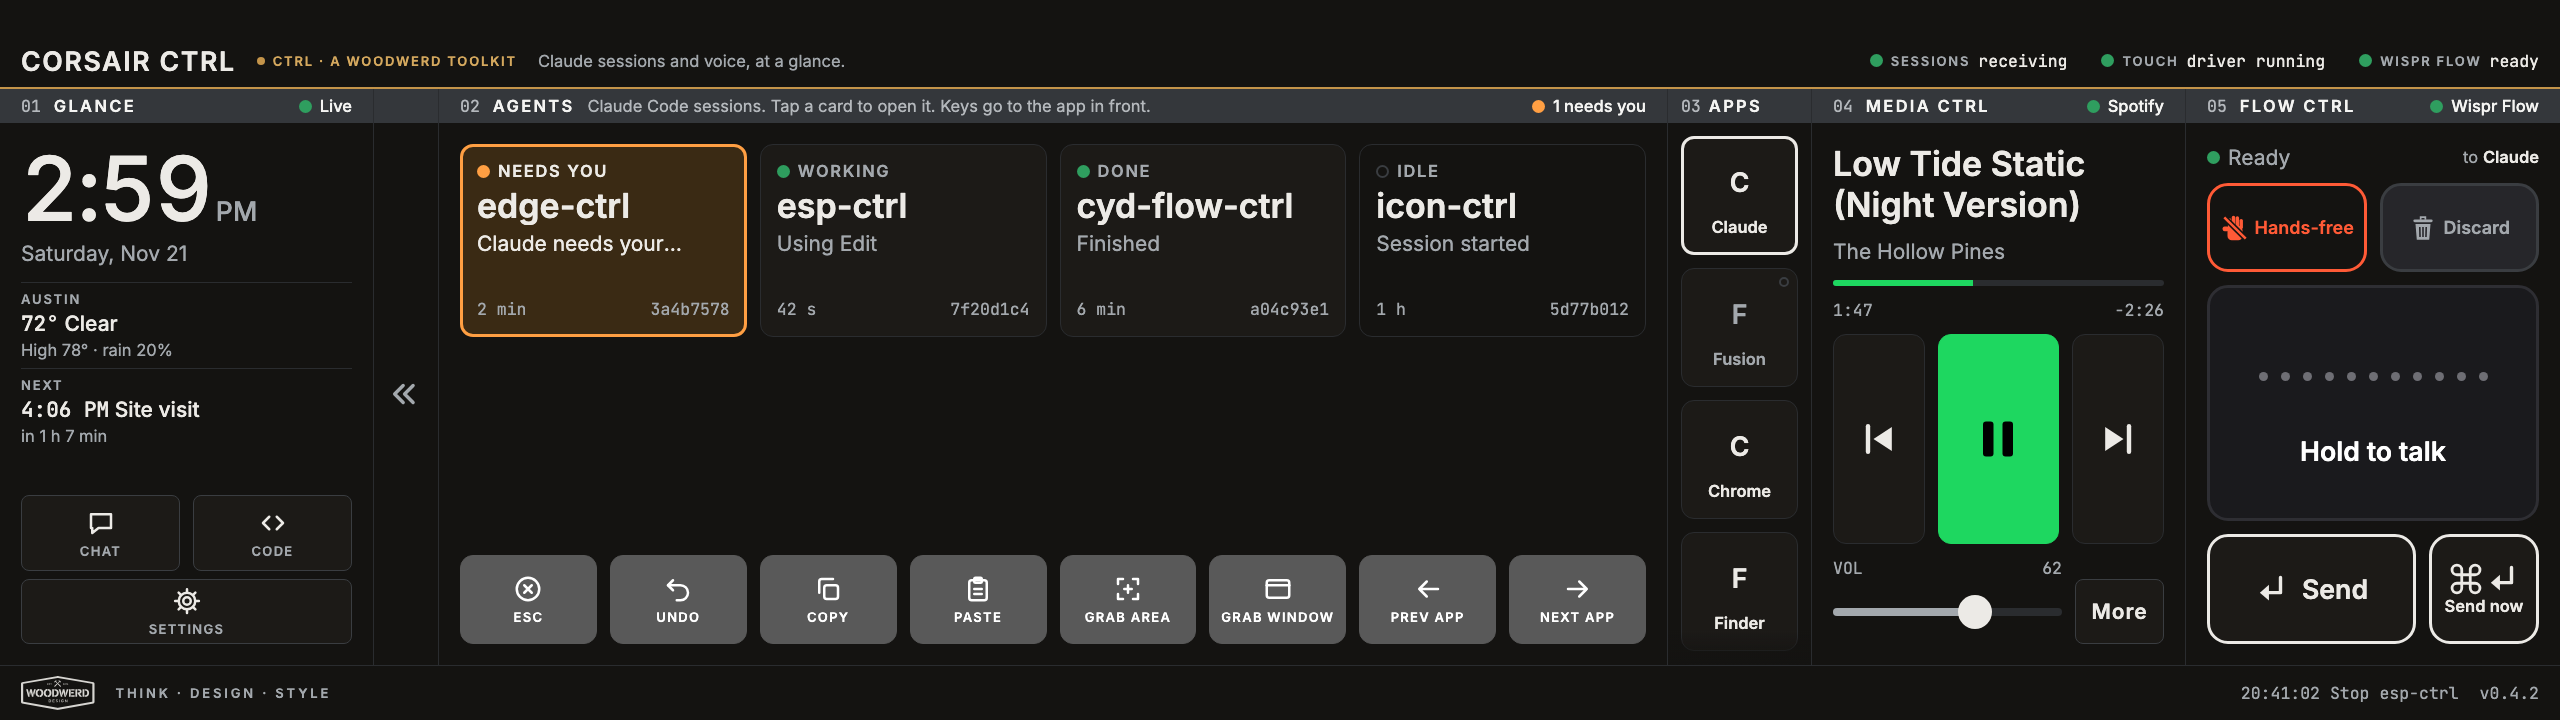
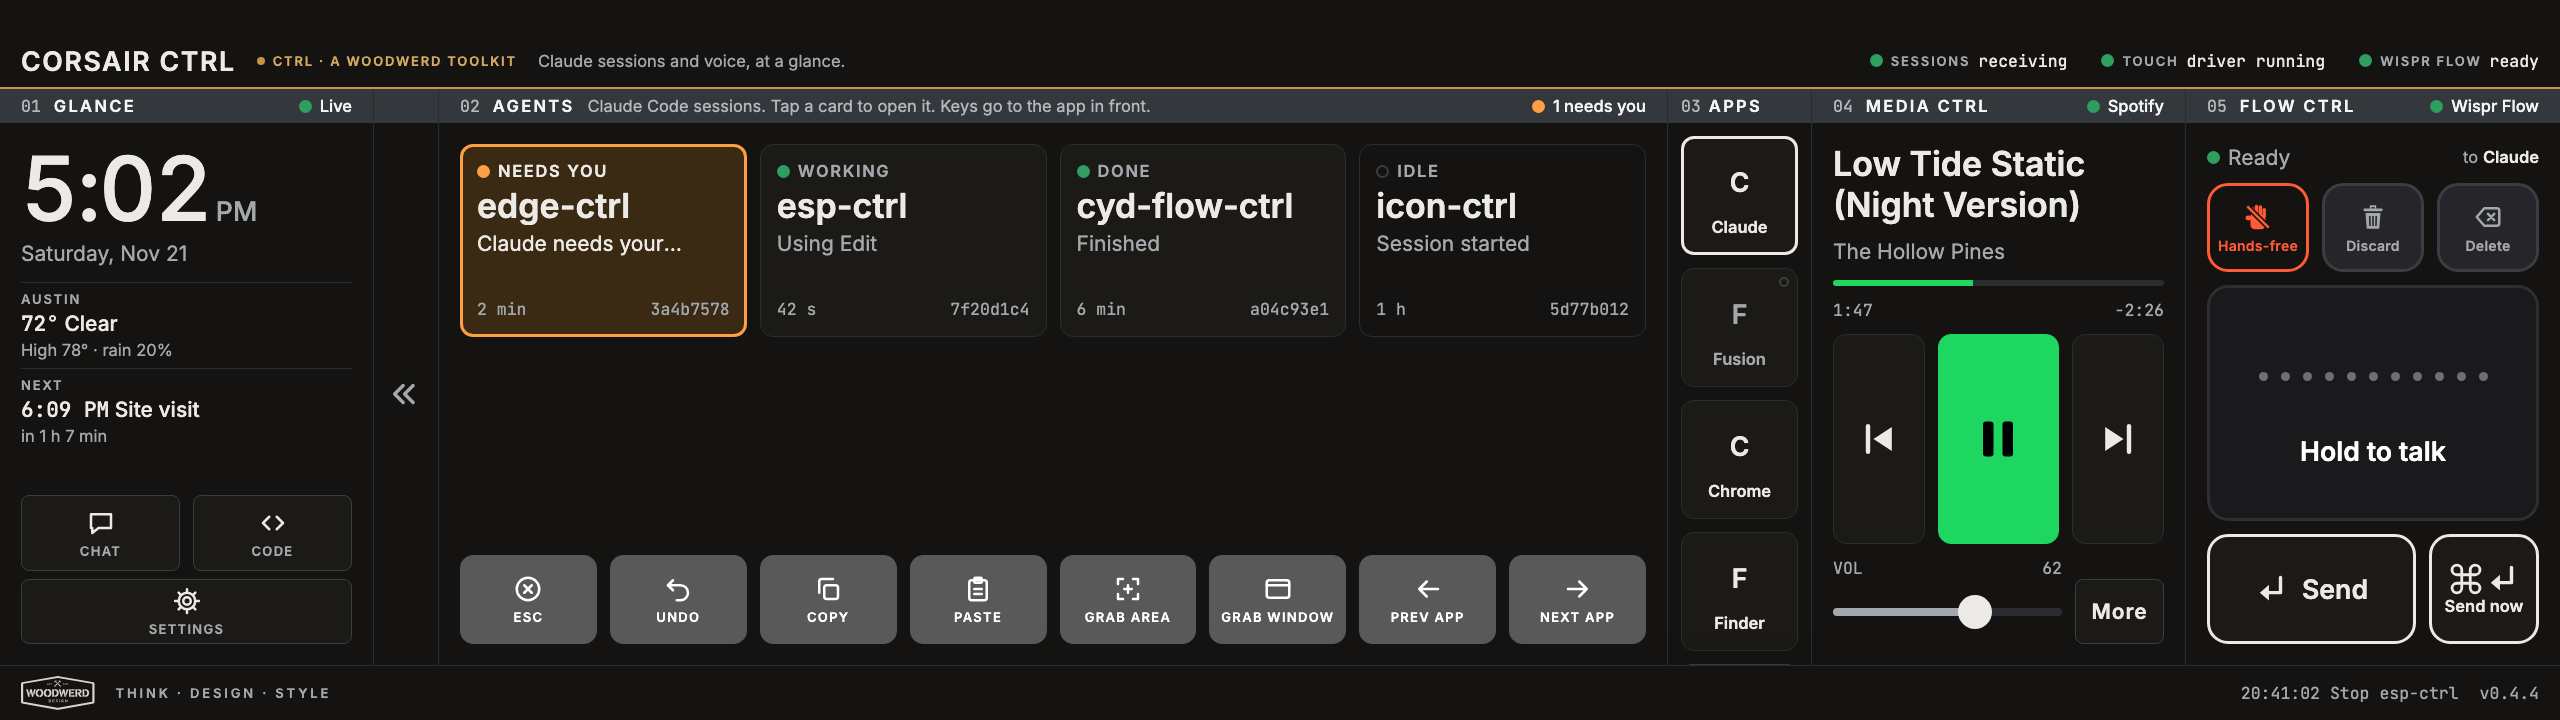
Corsair Ctrl v0.4.4: Delete key in Flow Ctrl
Flow Ctrl's top row is three square buttons: Hands-free, Discard, Delete.
Delete removes one character backwards per tap and repeats while held.

Changed region(s): [[0.8438, 0.2444, 1.0, 0.3972], [0.0, 0.2139, 0.0938, 0.3056], [0.0, 0.55, 0.0312, 0.5806]]

diff --git a/app/web/index.html b/app/web/index.html
@@ -218,8 +218,8 @@ body.kiosk .frame{outline:0}
 .f-status{display:flex;align-items:center;gap:8px;font-size:var(--t-body);color:var(--ink-soft);height:26px;white-space:nowrap;flex:none}
 .f-status .to{margin-left:auto;min-width:0;overflow:hidden;text-overflow:ellipsis;font-size:var(--t-cap)}
 .f-status .to b{color:var(--ink);font-weight:600}
-.f-pair{display:grid;grid-template-columns:1fr 1fr;gap:13px;flex:none}
-.f-btn{height:89px;border-radius:21px;display:flex;align-items:center;justify-content:center;gap:5px;font-size:18px;white-space:nowrap;padding:0 5px;font-weight:600;border:3px solid var(--line-strong);background:var(--chip);color:var(--ink-soft)}
+.f-pair{display:grid;grid-template-columns:repeat(3,minmax(0,1fr));gap:13px;flex:none}
+.f-btn{height:89px;border-radius:21px;display:flex;flex-direction:column;align-items:center;justify-content:center;gap:5px;font-size:14px;letter-spacing:.02em;white-space:nowrap;padding:0 3px;font-weight:600;border:3px solid var(--line-strong);background:var(--chip);color:var(--ink-soft)}
 .f-btn svg{width:30px;height:30px;flex:none}
 .f-btn .x{font-size:var(--t-h3);line-height:1;display:none}
 .f-btn.hand{background:transparent;border-color:var(--live);color:var(--live-ink)}
@@ -410,6 +410,7 @@ body.folded .rail{border-right:1px solid var(--line-strong)}
         <div class="f-pair">
           <button class="f-btn hand" id="hf" aria-label="Hands-free"><svg viewBox="0 0 28 28" aria-hidden="true"><defs><mask id="hm"><rect width="28" height="28" fill="#fff"/><line x1="3" y1="3" x2="25" y2="25" stroke="#000" stroke-width="5.2"/></mask></defs><g fill="currentColor" mask="url(#hm)"><rect x="7" y="12" width="14" height="13.5" rx="4"/><rect x="7.4" y="5" width="3.2" height="10" rx="1.6"/><rect x="11" y="2.5" width="3.2" height="12.5" rx="1.6"/><rect x="14.6" y="3" width="3.2" height="12" rx="1.6"/><rect x="18.2" y="5.5" width="3.2" height="9.5" rx="1.6"/><rect x="2.5" y="12.5" width="6" height="4.5" rx="1.8"/></g><line x1="4" y1="4" x2="24" y2="24" stroke="currentColor" stroke-width="2.4"/></svg><span>Hands-free</span></button>
           <button class="f-btn trash" id="discard" aria-label="Discard"><svg viewBox="0 0 28 28" aria-hidden="true"><defs><mask id="tm"><rect width="28" height="28" fill="#fff"/><g stroke="#000" stroke-width="1.5"><line x1="11" y1="13" x2="11.24" y2="22.4"/><line x1="14" y1="13" x2="14" y2="22.4"/><line x1="17" y1="13" x2="16.76" y2="22.4"/></g></mask></defs><g fill="currentColor"><rect x="5" y="6" width="18" height="2.6" rx="1.3"/><path fill-rule="evenodd" d="M11 3h6v3.4h-6zM12.6 4.6h2.8v1.8h-2.8z"/><polygon points="7,10.2 21,10.2 19.8,25 8.2,25" mask="url(#tm)"/></g></svg><span class="x">×</span><span id="discard-l">Discard</span></button>
+          <button class="f-btn" id="f-del" aria-label="Delete backwards"><svg viewBox="0 0 24 24" fill="none" stroke="currentColor" stroke-width="2" stroke-linecap="round" stroke-linejoin="round" aria-hidden="true"><path d="M9 5h10a2 2 0 0 1 2 2v10a2 2 0 0 1-2 2H9l-6-7z"/><path d="M12 9.5l5 5M17 9.5l-5 5"/></svg><span>Delete</span></button>
         </div>
         <button class="talk" id="talk" aria-label="Hold to talk">
           <span class="dots"><i></i><i></i><i></i><i></i><i></i><i></i><i></i><i></i><i></i><i></i><i></i></span>
@@ -606,6 +607,19 @@ function renderGlance() {
 /* ── 02 Agents ──────────────────────────────────────────────── */
 // Key row: each key is sent to the app in front.
 document.querySelectorAll("#keys [data-key]").forEach(b => b.onclick = () => post({ action: "edit", key: b.dataset.key }));
+// Flow Ctrl's Delete repeats while held, like the key on a keyboard: once, a pause, then steadily.
+{
+  const b = $("f-del");
+  let wait = 0, rep = 0;
+  const stop = () => { clearTimeout(wait); clearInterval(rep); wait = rep = 0; };
+  b.addEventListener("pointerdown", () => {
+    if (b.disabled) return;
+    stop();
+    post({ action: "edit", key: "backspace" });
+    wait = setTimeout(() => { rep = setInterval(() => post({ action: "edit", key: "backspace", repeat: true }), 70); }, 450);
+  });
+  for (const e of ["pointerup", "pointercancel", "pointerleave"]) b.addEventListener(e, stop);
+}
 let boardKey = "";
 function renderBoard() {
   const board = $("board"), band = $("s-board");
@@ -838,7 +852,7 @@ setInterval(() => { if (ST) renderGlance(); }, 30000);
 if (!bridge) {
   const now = Date.now() / 1000;
   window.ctrlUpdate({
-    version: "0.4.3", theme: new URLSearchParams(location.search).get("theme") || "auto", front: "Claude", lastLine: "20:41:02  Stop esp-ctrl",
+    version: "0.4.4", theme: new URLSearchParams(location.search).get("theme") || "auto", front: "Claude", lastLine: "20:41:02  Stop esp-ctrl",
     sessions: location.search.includes("empty") ? [] : [
       { id: "3a4b7578-aaaa", name: "edge-ctrl", state: "needs", since: now - 120, last: "Claude needs your permission to use Bash" },
       { id: "7f20d1c4-bbbb", name: "esp-ctrl", state: "working", since: now - 38, last: "Using Edit" },

diff --git a/app/Sources/main.swift b/app/Sources/main.swift
@@ -8,7 +8,7 @@ import ServiceManagement
 import ApplicationServices
 
 let PORT: UInt16 = 47616
-let VERSION = "0.4.3"
+let VERSION = "0.4.4"
 let CLAUDE_BUNDLE = "com.anthropic.claudefordesktop"
 
 struct Config: Codable {
@@ -394,6 +394,9 @@ final class App: NSObject, NSApplicationDelegate, WKScriptMessageHandler, WKNavi
             guard AXIsProcessTrusted() else { note("Key not sent: Accessibility is not allowed"); return }
             let app = front?.localizedName ?? "?"
             switch key {
+            case "backspace":
+                // Held, it repeats many times a second: say so once, not for every character.
+                if keys.perform(key), m["repeat"] as? Bool != true { note("Delete → \(app)") }
             case "esc", "undo", "copy", "paste":
                 if keys.perform(key) { note("\(key.capitalized) → \(app)") }
             case "switch", "switch-back":

diff --git a/app/Sources/Keys.swift b/app/Sources/Keys.swift
@@ -63,6 +63,7 @@ final class Keys {
         case "undo": tap(6, .maskCommand)
         case "copy": tap(8, .maskCommand)
         case "paste": tap(9, .maskCommand)
+        case "backspace": tap(51)
         case "space": tap(kSpace)
         default: return false
         }

diff --git a/spec.md b/spec.md
@@ -1,6 +1,6 @@
 # Corsair Ctrl — agent panel for the XENEON EDGE (spec v0.2)
 
-> 2026-11-21 · Status: **v0.4.3 running on the Corsair. Confirmed by hand: Prev app, Next app, Grab area and Paste. Not yet confirmed: Esc, Undo, Copy, Grab window, the Open app at start button by touch, and a real reboot.** Project at `~/Code/corsair-ctrl`. App at `app/`; build with `bash app/build.sh`. The panel page `app/web/index.html` opened in a browser is the living preview (sample data). Name: **Corsair Ctrl** (Ctrl family); working name was "Edge Ctrl". Method: spec → design → build. Spike files: `spike/`. Hardware notes: `claude/xeneon-edge-notes.md` in the original CYD project folder (`~/Documents/Claude/Projects/CYD/`).
+> 2026-11-21 · Status: **v0.4.4 running on the Corsair. Confirmed by hand: Prev app, Next app, Grab area and Paste. Not yet confirmed: Delete, Esc, Undo, Copy, Grab window, the Open app at start button by touch, and a real reboot.** Project at `~/Code/corsair-ctrl`. App at `app/`; build with `bash app/build.sh`. The panel page `app/web/index.html` opened in a browser is the living preview (sample data). Name: **Corsair Ctrl** (Ctrl family); working name was "Edge Ctrl". Method: spec → design → build. Spike files: `spike/`. Hardware notes: `claude/xeneon-edge-notes.md` in the original CYD project folder (`~/Documents/Claude/Projects/CYD/`).
 
 v0.2 folds the spike results into v0.1. Earlier decisions are kept as written.
 
@@ -8,6 +8,7 @@ v0.2 folds the spike results into v0.1. Earlier decisions are kept as written.
 A always-on touch panel on the Corsair XENEON EDGE (2560 × 720) beside the Mac, for testing agentic workflows: see which Claude Code sessions need attention, jump to them, and talk to Claude without touching the keyboard.
 
 ## Decisions (newest first)
+- 2026-11-21 — **v0.4.4: Delete key, in Flow Ctrl** (Drew: to take back the end of something just dictated). It sits in Flow Ctrl's top row, which becomes three square buttons: Hands-free, Discard, Delete, each with its icon over its name. A tap deletes one character backwards; held, it repeats after a short pause, like the key on a keyboard. It was first built as a ninth key in the key row and moved the same day, because deleting belongs with dictating. The key row stays at eight keys.
 - 2026-11-21 — **Corsair Ctrl is in the "All WOODWERD tools" menu** (Drew), under a new heading, **Desk — no board needed**, between Run and Phone. Added in the docs theme, Toolkit Guides and the ten tool sites that carry their own copy of the menu. The site was live first, as agreed.
 - 2026-11-21 — **v0.4.3: the grab keys press this Mac's own screenshot shortcut** (after Grab area failed in Drew's test). The shortcut for "copy picture of selected area to the clipboard" can be changed in Keyboard settings; on Drew's Mac it is Command-Shift-S, so the default Command-Control-Shift-4 the panel sent was ignored. The panel now reads the shortcut from the Mac's settings and presses that, with the modifier keys going down and up as on a keyboard. The `screencapture` fallback is removed: without Screen Recording permission it showed a crosshair and captured nothing, which hid the real cause. Screen Recording is not needed. Confirmed by Drew: Grab area then Paste works. This replaces the grab details in the v0.4.0 entry.
 - 2026-11-21 — **Corsair Ctrl gets its own site and a CLAUDE.md** (Drew: promote it the way the other tools are). The site is `woodwerd.github.io/corsair-ctrl/`, built by MkDocs with the shared `WOODWERD/ctrl-docs-theme`, the same way as Flow Ctrl: the README is the home page, with a changelog and the notices. `tools/site.sh` prepares the pages and a Pages workflow builds them on each push to `main`. A `CHANGELOG.md` was added because the site carries one. Order agreed: site first; Corsair Ctrl joins the "All WOODWERD tools" menu in the other repos only after Drew has seen the site live, so the menu never links to a missing page.

diff --git a/README.md b/README.md
@@ -26,7 +26,7 @@ The panel never takes focus. Whatever app you were working in stays in front, so
 
 **04 Media Ctrl.** What is playing in Spotify or Apple Music, with previous, play or pause, next, volume, and a **More** view (skip 15 seconds, shuffle, repeat, like, mute). The accent follows the player: green for Spotify, red for Music. With neither playing, the buttons send the system media keys.
 
-**05 Flow Ctrl.** Voice through Wispr Flow. **Hold to talk** dictates while your finger is down. **Hands-free** starts dictation that runs until you stop it. **Send** presses Return, **Send now** presses Command-Return, and **Discard** presses Esc.
+**05 Flow Ctrl.** Voice through Wispr Flow. **Hold to talk** dictates while your finger is down. **Hands-free** starts dictation that runs until you stop it. **Send** presses Return, **Send now** presses Command-Return, **Discard** presses Esc, and **Delete** removes one character backwards and repeats while held, for taking back the end of what you just said.
 
 ## Needs
 - macOS 14 or later, with Xcode or the Command Line Tools.

diff --git a/CHANGELOG.md b/CHANGELOG.md
@@ -2,6 +2,9 @@
 
 What changed in Corsair Ctrl, newest first. The reasons behind each change are in [spec.md](https://github.com/WOODWERD/corsair-ctrl/blob/main/spec.md).
 
+## v0.4.4 — 2026-11-21
+- **Delete** in Flow Ctrl, beside Hands-free and Discard. A tap deletes one character backwards; hold it to keep deleting. The three buttons are now square, icon over name.
+
 ## v0.4.3 — 2026-11-21
 - Grab area and Grab window press your Mac's own screenshot shortcut, read from Keyboard settings, so they work when that shortcut has been changed from the default. Screen Recording permission is not needed.
 
